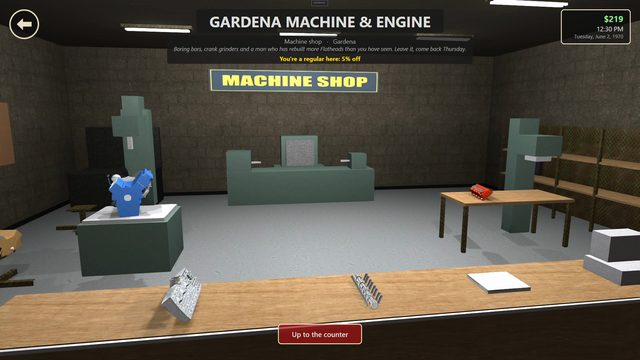
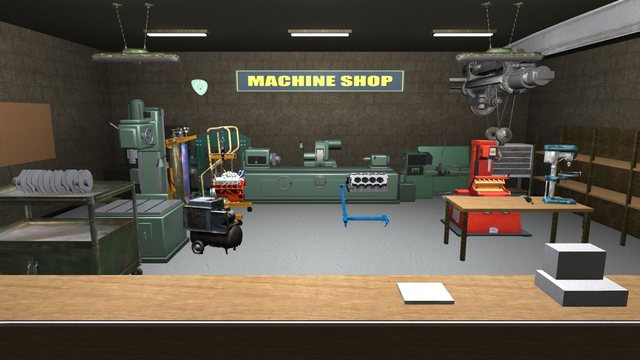
Street Corsa 0.1.7: Street Rod 0.5.1 (the machine shop kitted out) - release, download and size, changelog, Street Rod and shops data, the shops page's new machine shop pictures and text, news post

diff --git a/content/mods/street-rod-shops.md b/content/mods/street-rod-shops.md
@@ -10,13 +10,16 @@ shots_note: "In Street Rod, drawn by the game."
 shots:
   - { img: paint-booth, caption: "The painter at work: a '63 Galaxie going Silver Frost" }
   - { img: paint-job, caption: "The paint job: the make's colours, or one of your own, seen on the car before he sprays it" }
-  - { img: machine-shop, caption: "Gardena Machine & Engine: a block on the stand, the work on the counter" }
+  - { img: machine-shop, caption: "Gardena Machine & Engine: the boring bar, the crank grinder under the sign, the press and the engine crane" }
+  - { img: machine-shop-floor, caption: "The shop floor: the head surfacer and the head bench, the drill press, the overhead crane, the welding bottles by the hot tank" }
   - { img: warehouse, caption: "Your warehouse: a bay for each car, room for ten" }
   - { img: /images/tutorials/parts-shop.jpg, caption: "Inside a part shop: the shelves, the counter, the parts on show" }
 ---
 
 The rooms Street Rod drives you into. The part shops' inside, with its shelves and counter, where every specialist and
-speed shop in town shows its stock. The machine shop, where the blocks get bored and the heads milled. The paint booth,
+speed shop in town shows its stock. The machine shop, where the blocks get bored and the cranks ground: since 1.1.0 a
+real engine shop, with a column boring bar, a crank grinder, a press, lathes, a head surfacer, drill presses, an engine
+crane with a 454 hanging from it and an overhead crane, and round them a working shop's clutter. The paint booth,
 with the painter going round your car with his gun. And the warehouse at the car lot, a car in each bay. Each comes
 with its own air: the shop's hum, the machine shop's, the booth's fans and the gun, the warehouse's echo.
 
@@ -35,4 +38,5 @@ Their files are on [SourceForge](https://sourceforge.net/p/streetcorsa-mods/stre
 to modding? The [modding guide](/tutorials/modding/guide/) starts at the beginning.
 
 The rooms are our own, drawn by the game's scene tools, with surface textures from Poly Haven (CC0); the paint booth,
-its painter and its sounds are all ours.
+its painter and its sounds are all ours. The machine shop's boring bar and crank grinder are ours too; its other
+machines and props are models from Sketchfab (CC BY 4.0) and Poly Haven (CC0), their makers listed below.

diff --git a/content/news/2026-11-23-0-1-7.md b/content/news/2026-11-23-0-1-7.md
@@ -1,0 +1,29 @@
+---
+title: "Street Corsa 0.1.7: the machine shop kitted out"
+date: 2026-11-23T05:30:00
+description: Street Rod 0.5.1 turns Gardena Machine & Engine into a real engine shop, with a boring bar, a crank grinder and a working shop's clutter round them.
+image: /images/mods/street-rod-shops/machine-shop-sm.jpg
+---
+
+Street Corsa **0.1.7** is out, with **Street Rod 0.5.1**. Get both on the [downloads](/downloads/) page: the game
+installs over any earlier version, and installing Street Rod from **Mod Manager → Install mods** brings its places
+with it.
+
+![Gardena Machine & Engine](/images/mods/street-rod-shops/machine-shop.jpg "Gardena Machine & Engine")
+
+**The machine shop is a real engine shop now.** Walk into Gardena Machine & Engine and the blocks go on a column
+boring bar, the cranks into a long crank grinder with its wheel in the guard, under the sign. Round them stand a
+hydraulic press, lathes, a head surfacer, bench and floor drill presses, an engine crane with a customer's 454
+hanging from it, a big-block on a stand, and an overhead crane running down the side of the shop.
+
+![The shop floor](/images/mods/street-rod-shops/machine-shop-floor.jpg "The shop floor")
+
+And the clutter of a shop that works for a living: a belt-drive compressor, welding bottles on their hand truck by the
+hot tank, a red rollaway, a vise and pistons on the workbench, a valve grinder on the head bench, oil cans and drums,
+caged lamps over the machines and a 1950s clock on the wall.
+
+For modders, the [Street Rod shops](/mods/street-rod-shops/) 1.1.0 are on SourceForge. The machines and props are
+models from Sketchfab (CC BY 4.0) and Poly Haven (CC0), their makers named on the mod's page; the boring bar and the
+crank grinder are our own.
+
+Everything that changed is in the [changelog](/about/changelog/).

diff --git a/content/about/changelog.md b/content/about/changelog.md
@@ -5,6 +5,18 @@ weight: 3
 source: street-corsa docs/player/changelog.md
 ---
 
+## 0.1.7
+
+- **Street Rod 0.5.1: the machine shop, kitted out.** Gardena Machine & Engine is a real engine shop now: a column
+  boring bar and a long crank grinder with its wheel in the guard where the jobs go on, a hydraulic press, lathes, a
+  head surfacer, bench and floor drill presses, an engine crane with a 454 hanging from it, a big-block on a stand and
+  an overhead crane.
+- Round them, the clutter of a working shop: a belt-drive compressor, welding bottles on their hand truck, a red
+  rollaway, a vise and pistons on the workbench, a valve grinder on the head bench, oil cans and drums, caged lamps
+  over the machines and a 1950s clock on the wall.
+- **For modders:** the machines and props are downloads from Sketchfab (CC BY 4.0) and Poly Haven (CC0), their makers
+  named in the scene's credits; Street Rod shops 1.1.0 is on SourceForge.
+
 ## 0.1.6
 
 - **Street Rod 0.5.0: a town round Main Street.** About five blocks by five: downtown's shops, the houses, the strip

diff --git a/content/downloads/_index.es.md b/content/downloads/_index.es.md
@@ -3,7 +3,7 @@ title: Descargas
 description: El juego, sus ambientaciones, packs de motores y complementos.
 ---
 
-**Acceso anticipado:** versión 0.1.6, con trabajo por delante. Puede que las partidas guardadas no pasen a versiones futuras. Qué cambió: el [registro de cambios](/about/changelog/) (en inglés).
+**Acceso anticipado:** versión 0.1.7, con trabajo por delante. Puede que las partidas guardadas no pasen a versiones futuras. Qué cambió: el [registro de cambios](/about/changelog/) (en inglés).
 
 1. Instala **el juego**.
 2. Agrega una **ambientación**: en la pantalla principal, **Mod Manager → Install mods**, elige el zip.

diff --git a/content/downloads/_index.pt.md b/content/downloads/_index.pt.md
@@ -3,7 +3,7 @@ title: Downloads
 description: O jogo, os cenários, pacotes de motores e complementos.
 ---
 
-**Acesso antecipado:** versão 0.1.6, com trabalho pela frente. Os saves podem não passar para versões futuras. O que mudou: o [changelog](/about/changelog/) (em inglês).
+**Acesso antecipado:** versão 0.1.7, com trabalho pela frente. Os saves podem não passar para versões futuras. O que mudou: o [changelog](/about/changelog/) (em inglês).
 
 1. Instale **o jogo**.
 2. Adicione um **cenário**: na tela principal, **Mod Manager → Install mods**, escolha o zip.

diff --git a/content/downloads/_index.md b/content/downloads/_index.md
@@ -3,7 +3,7 @@ title: Downloads
 description: The game, its settings, engine packs and add-ons.
 ---
 
-**Early access:** version 0.1.6, with work ahead. Saves may not carry over to later versions. What changed: the [changelog](/about/changelog/).
+**Early access:** version 0.1.7, with work ahead. Saves may not carry over to later versions. What changed: the [changelog](/about/changelog/).
 
 1. Install **the game**.
 2. Add a **setting**: on the main screen, **Mod Manager → Install mods**, pick the zip.
